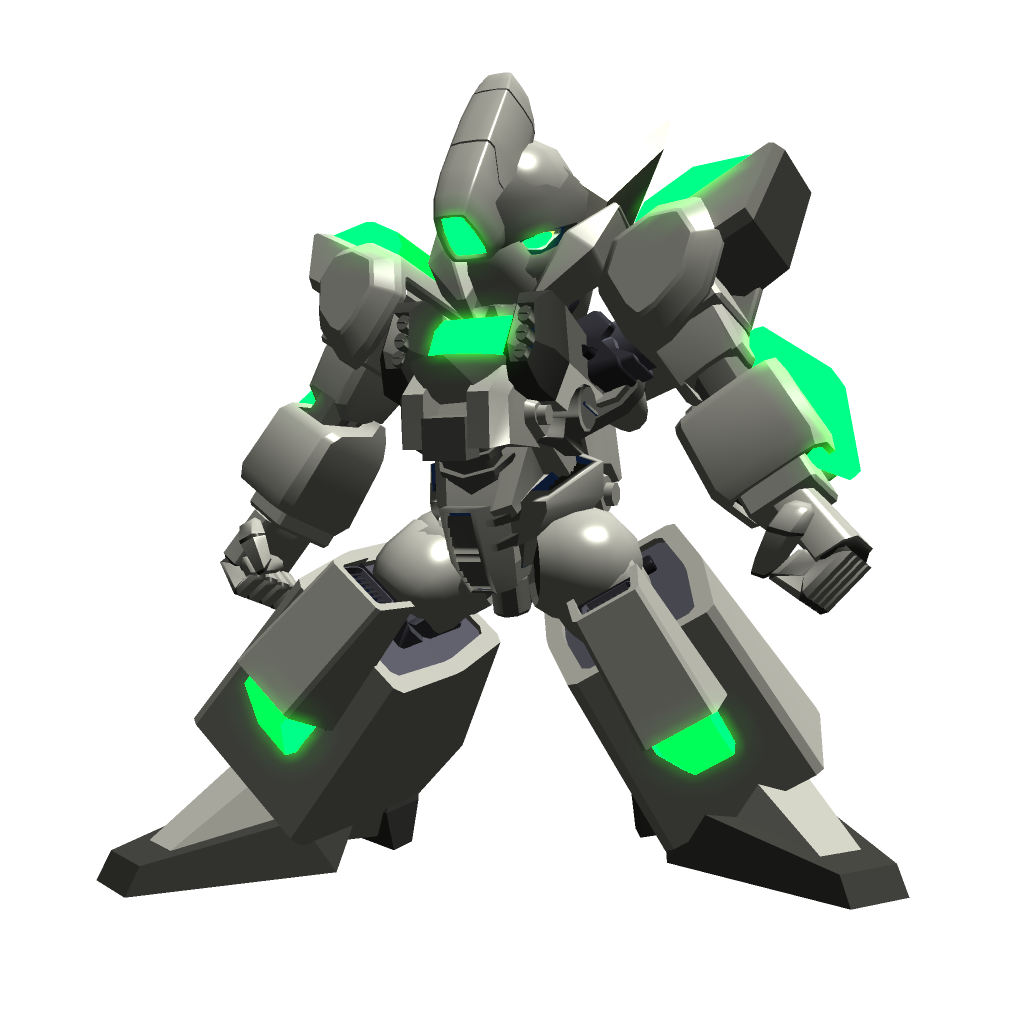
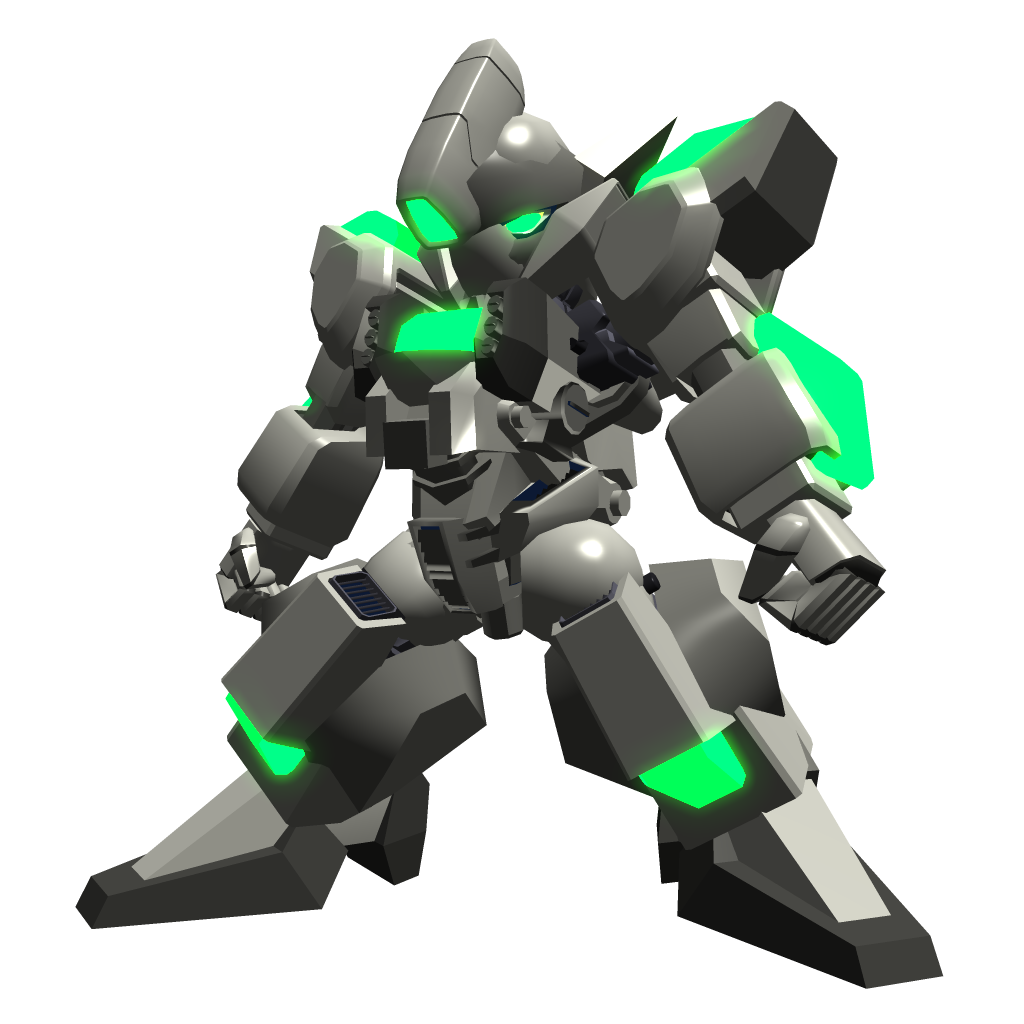
シンブレイバーの立ち絵を変更した

Changed region(s): [[0.0625, 0.0312, 0.9375, 0.9688]]

diff --git a/src/game-object/armdozer/shin-breaver/view/player-shin-braver-view.js b/src/game-object/armdozer/shin-breaver/view/player-shin-braver-view.js
@@ -9,6 +9,7 @@ import {SPRITE_RENDER_ORDER} from "../../../../mesh/render-order";
 
 export const MESH_WIDTH = 320;
 export const MESH_HEIGHT = 320;
+export const PADDING_BOTTOM = -16;
 
 /** プレイヤー側シンブレイバーのビュー */
 export class PlayerShinBraverView implements ShinBraverView {
@@ -23,7 +24,7 @@ export class PlayerShinBraverView implements ShinBraverView {
   gameLoop(model: ShinBraverModel, camera: THREE.Camera): void {
     this._mesh.position.set(
       model.position.x,
-      model.position.y + MESH_HEIGHT / 2 -30,
+      model.position.y + MESH_HEIGHT / 2 + PADDING_BOTTOM,
       model.position.z
     );
 
